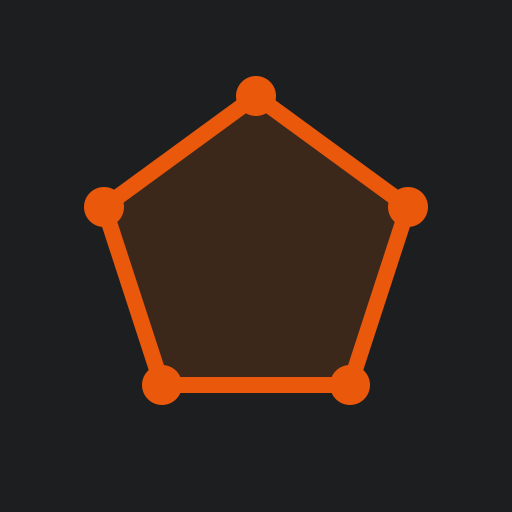
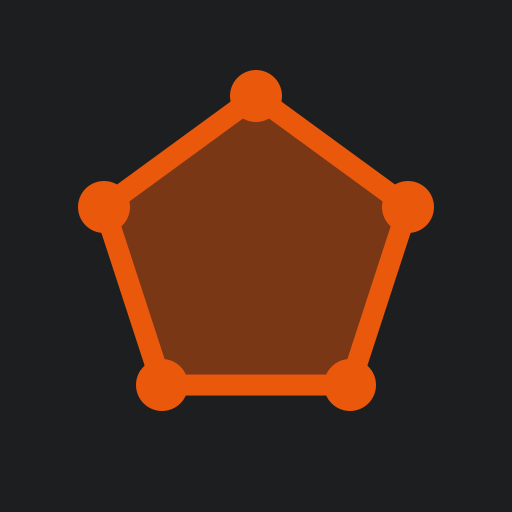
fix: 移动端抽屉高度提升至50%并系统性缩减留白 + 重新生成PWA图标
- GisMobileNav.vue: 抽屉高度 35%50%，drawer-handle margin 8px/4px4px/2px，drawer-body padding 2px0

- App.vue: @user移动端追加 el-drawer__body/header 留白优化，统一缩减所有 el-drawer 容器留白

- pwa-192x192.png/pwa-512x512.png: 基于005更新后的SVG重新生成PNG图标

Changed region(s): [[0.1562, 0.1562, 0.8438, 0.8125], [0.4688, 0.125, 0.5312, 0.1562]]

diff --git a/src/App.vue b/src/App.vue
@@ -145,6 +145,16 @@ body,
   .el-message-box {
     width: 90% !important;
   }
+
+  /* 移动端 el-drawer 留白优化 */
+  .el-drawer__body {
+    padding: 8px 8px 4px !important;
+  }
+
+  .el-drawer__header {
+    padding: 8px 12px !important;
+    margin-bottom: 0 !important;
+  }
 }
 </style>
 <style scoped>

diff --git a/src/components/data/GisMobileNav.vue b/src/components/data/GisMobileNav.vue
@@ -86,7 +86,7 @@ const hasActiveData = computed(() => !!activeData.value?.features?.length)
     <el-drawer
       v-model="drawerVisible"
       direction="btt"
-      size="35%"
+      size="50%"
       :show-close="false"
       :with-header="false"
       class="mobile-drawer"
@@ -167,14 +167,14 @@ const hasActiveData = computed(() => !!activeData.value?.features?.length)
   height: 4px;
   background: var(--el-border-color);
   border-radius: 2px;
-  margin: 8px auto 4px;
+  margin: 4px auto 2px;
   flex-shrink: 0;
 }
 
 .drawer-body {
   flex: 1;
   overflow: hidden;
-  padding: 2px;
+  padding: 0;
 }
 
 .tab-content {